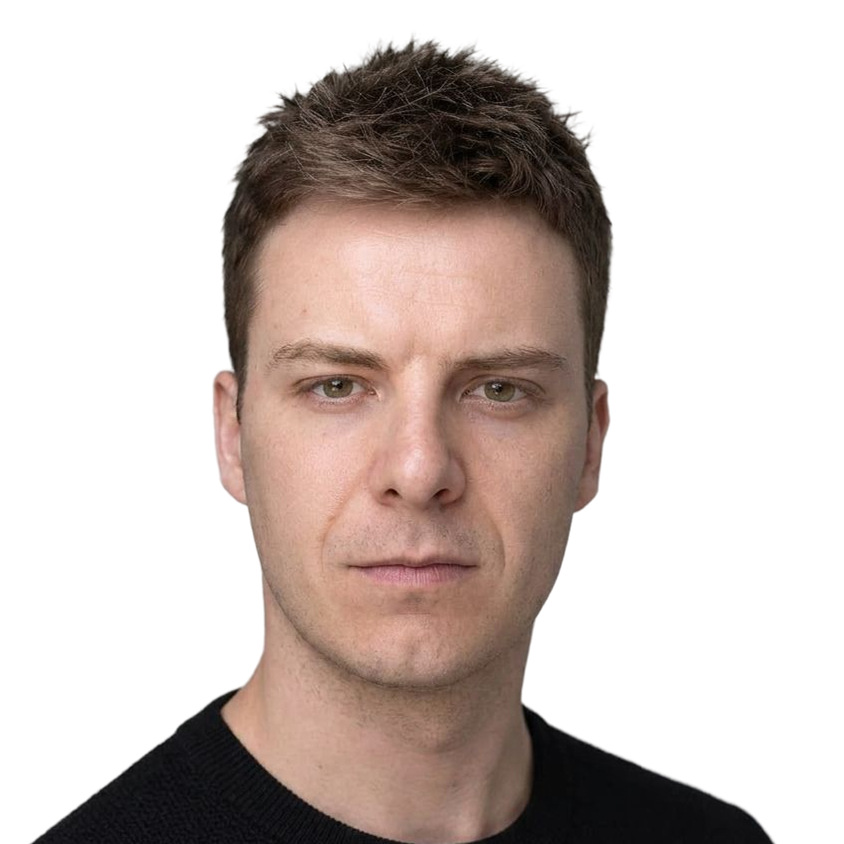
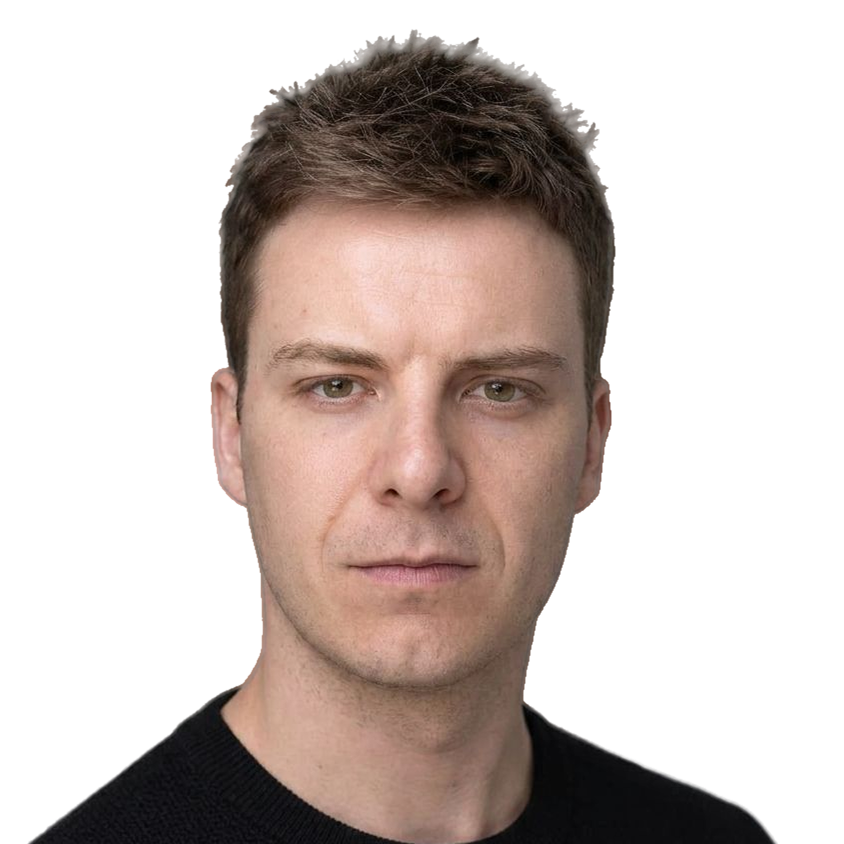
Refactor styles and update hero section image
- Removed unused glow variables from globals.css and replaced them with direct gradient definitions in the glow-bg and glow-bg-inverted classes.
- Updated the hero section image dimensions for better display and adjusted the border properties for improved aesthetics.
- Minor cleanup in the hero section component to enhance readability.

diff --git a/app/globals.css b/app/globals.css
@@ -96,23 +96,6 @@
       var(--bg-transparent) 0%,
       var(--background) 100%
     );
-    --hero-glow:
-      radial-gradient(
-        ellipse 70% 55% at 50% 0%,
-        rgba(94, 106, 210, 0.22),
-        transparent 65%
-      ),
-      radial-gradient(
-        ellipse 50% 40% at 80% 10%,
-        rgba(94, 106, 210, 0.1),
-        transparent 60%
-      );
-    --footer-glow: radial-gradient(
-      ellipse at 50% 100%,
-      rgba(94, 106, 210, 0.14),
-      transparent 60%
-    );
-
     --shadow-lift:
       0 1px 16px rgba(0, 0, 0, 0.08), 0 0 0 1px rgba(255, 255, 255, 0.05);
 
@@ -157,23 +140,6 @@
     --bg-transparent: rgba(1, 1, 2, 0);
     --border-subtle: rgba(255, 255, 255, 0.08);
     --border-translucent: color-mix(in srgb, transparent 60%, #23252a);
-    --hero-glow:
-      radial-gradient(
-        ellipse 60% 50% at 50% -10%,
-        rgba(94, 106, 210, 0.22) 0%,
-        transparent 70%
-      ),
-      radial-gradient(
-        ellipse 40% 30% at 70% 5%,
-        rgba(94, 106, 210, 0.08) 0%,
-        transparent 60%
-      );
-    --footer-glow: radial-gradient(
-      ellipse 60% 80% at 50% 110%,
-      rgba(94, 106, 210, 0.22) 0%,
-      transparent 70%
-    );
-
     --shadow-lift: 0 1px 1px rgba(0, 0, 0, 0.08), 0 0 0 1px rgba(0, 0, 0, 0.06);
 
     --gradient-text-foreground-from: #f7f8f8;
@@ -407,11 +373,27 @@
   }
 
   .glow-bg {
-    background: var(--hero-glow);
+    background:
+      radial-gradient(
+        ellipse 70% 55% at 50% 0%,
+        rgba(94, 106, 210, 0.22),
+        transparent 65%
+      ),
+      radial-gradient(
+        ellipse 50% 40% at 80% 10%,
+        rgba(94, 106, 210, 0.1),
+        transparent 60%
+      );
   }
 
   .glow-bg-inverted {
-    background: var(--footer-glow), var(--background);
+    background:
+      radial-gradient(
+        ellipse at 50% 100%,
+        rgba(94, 106, 210, 0.14),
+        transparent 60%
+      ),
+      var(--background);
   }
 
   .logo-gradient {

diff --git a/components/hero-section.tsx b/components/hero-section.tsx
@@ -31,18 +31,18 @@ export function HeroSection() {
 
         <div className="relative z-10 mx-auto flex w-full max-w-3xl flex-col items-center gap-7 px-12 pt-44 pb-24 text-center">
           {/* Profile pill */}
-          <div className="shadow-lift inline-flex items-center gap-3 rounded-full border border-border-subtle/60 bg-card/30 p-1 pr-4 backdrop-blur-md">
+          <div className="shadow-lift inline-flex items-center overflow-clip rounded-full border border-border-subtle/80 backdrop-blur-md">
             <Image
               src="/aran.png"
               alt="Aran Bruce-Caddick"
-              width={36}
-              height={36}
+              width={96}
+              height={96}
               priority
-              className="rounded-full border border-border-translucent bg-background object-cover"
+              className="glow-bg-inverted rounded-full object-cover"
             />
-            <span className="font-medium text-secondary-foreground">
+            {/* <span className="font-medium text-secondary-foreground">
               Aran Bruce-Caddick
-            </span>
+            </span> */}
           </div>
 
           {/* Headline */}